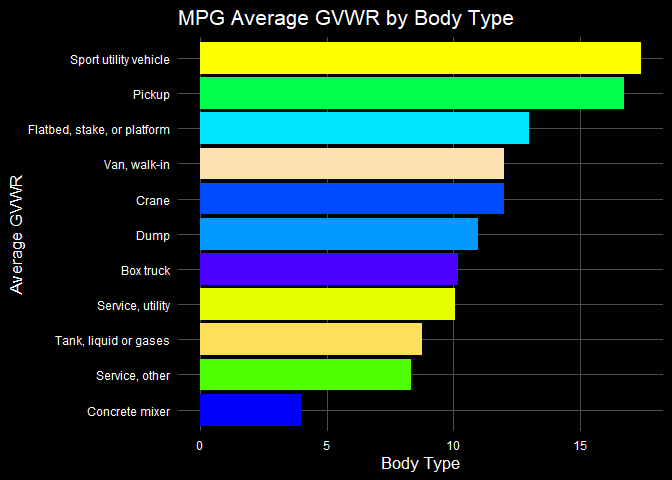
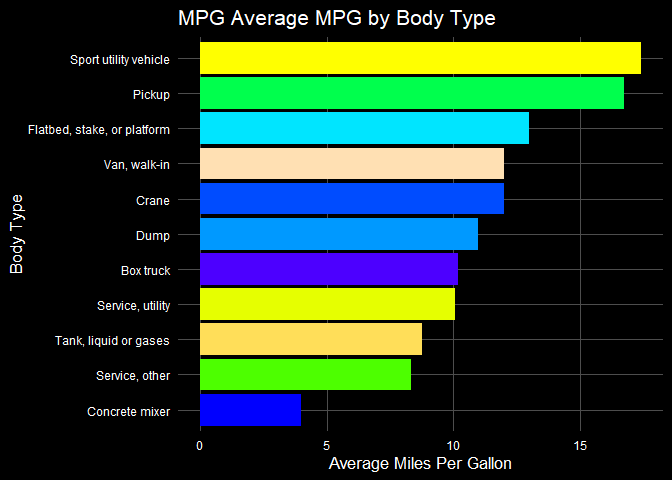
fin.
spruced up desc, fixed minor detail on readme

Changed region(s): [[0.4688, 0.0, 0.7812, 0.0625], [0.4688, 0.9375, 0.75, 1.0], [0.0, 0.3438, 0.0625, 0.625]]

diff --git a/README.md b/README.md
@@ -117,9 +117,9 @@ body type and generates a horizontal bar chart.
 ``` r
 get_btype_graphs(vius1 = vius_cleaned,
                  var = `MPG`,
-                 plot_title = "Average GVWR by Body Type",
-                 x_plot_label = "Average GVWR",
-                 y_plot_label = "Body Type")
+                 plot_title = "Average MPG by Body Type",
+                 x_plot_label = "Body Type",
+                 y_plot_label = "Average Miles Per Gallon")
 ```
 
 <img src="man/figures/README-unnamed-chunk-2-1.png" width="100%" />
@@ -137,6 +137,9 @@ get_state_maps(vius = vius_cleaned,
                var_label = "Fuel Volume",
                dollars = FALSE)
 ```
+
+<div class="plotly html-widget html-fill-item" id="htmlwidget-c0068b37a6a014002611" style="width:100%;height:480px;"></div>
+<script type="application/json" data-for="htmlwidget-c0068b37a6a014002611">{"x":{"visdat":{"52304e194383":["function () ","plotlyVisDat"]},"cur_data":"52304e194383","attrs":{"52304e194383":{"locationmode":"USA-states","alpha_stroke":1,"sizes":[10,100],"spans":[1,20],"z":{},"text":{},"locations":{},"color":{},"colors":"Blues","hoverinfo":"text","inherit":true}},"layout":{"margin":{"b":40,"l":60,"t":25,"r":10},"mapType":"geo","geo":{"domain":{"x":[0,1],"y":[0,1]},"scope":"usa","projection":{"type":"albers usa"},"showlakes":true,"lakecolor":"rgba(255,255,255,1)"},"scene":{"zaxis":{"title":"total"}},"hovermode":"closest","showlegend":false,"legend":{"yanchor":"top","y":0.5}},"source":"A","config":{"modeBarButtonsToAdd":["hoverclosest","hovercompare"],"showSendToCloud":false},"data":[{"colorbar":{"title":"total","ticklen":2,"len":0.5,"lenmode":"fraction","y":1,"yanchor":"top"},"colorscale":[["0","rgba(247,251,255,1)"],["0.0416666666666667","rgba(239,246,252,1)"],["0.0833333333333333","rgba(230,240,250,1)"],["0.125","rgba(222,235,247,1)"],["0.166666666666667","rgba(214,230,244,1)"],["0.208333333333333","rgba(206,224,242,1)"],["0.25","rgba(198,219,239,1)"],["0.291666666666667","rgba(185,213,234,1)"],["0.333333333333333","rgba(172,208,230,1)"],["0.375","rgba(158,202,225,1)"],["0.416666666666667","rgba(142,193,221,1)"],["0.458333333333333","rgba(125,183,218,1)"],["0.5","rgba(107,174,214,1)"],["0.541666666666667","rgba(94,165,209,1)"],["0.583333333333333","rgba(81,155,203,1)"],["0.625","rgba(66,146,198,1)"],["0.666666666666667","rgba(57,135,192,1)"],["0.708333333333333","rgba(46,124,187,1)"],["0.75","rgba(33,113,181,1)"],["0.791666666666667","rgba(27,102,173,1)"],["0.833333333333333","rgba(19,91,164,1)"],["0.875","rgba(8,81,156,1)"],["0.916666666666667","rgba(9,70,139,1)"],["0.958333333333333","rgba(9,59,123,1)"],["1","rgba(8,48,107,1)"]],"showscale":true,"locationmode":"USA-states","z":[5,10.59,23,21.760000000000002,5,7,6,12,13.85,10.619999999999999,10,10.619999999999999,20,1,15,6.9199999999999999,6,10.19,14,12,10.19,21.760000000000002,10,7.7199999999999998,10,9,12.1,21.760000000000002,4,12,15.59,12.1,18,7.7199999999999998,15.59,10.59,6.9199999999999999,12,10,7.7199999999999998,24.91,10.59,6,14,10.710000000000001,14.65,18.489999999999998,10.59,24.91,10.59,13.800000000000001,13.85,20,14.65,13.85,21.760000000000002,20,15.59,7,14.65,10.710000000000001,6,8.5800000000000001,5,18.489999999999998,5,8.5800000000000001,6.9199999999999999,18.489999999999998,18,5,13.800000000000001],"text":["State: MT<br>Fuel Volume: 5","State: NC<br>Fuel Volume: 10.59","State: SD<br>Fuel Volume: 23","State: MD<br>Fuel Volume: 21.76","State: GA<br>Fuel Volume: 5","State: NJ<br>Fuel Volume: 7","State: OH<br>Fuel Volume: 6","State: HI<br>Fuel Volume: 12","State: UT<br>Fuel Volume: 13.85","State: WV<br>Fuel Volume: 10.62","State: MA<br>Fuel Volume: 10","State: WV<br>Fuel Volume: 10.62","State: KY<br>Fuel Volume: 20","State: AZ<br>Fuel Volume: 1","State: CO<br>Fuel Volume: 15","State: VT<br>Fuel Volume: 6.92","State: LA<br>Fuel Volume: 6","State: AL<br>Fuel Volume: 10.19","State: NM<br>Fuel Volume: 14","State: MN<br>Fuel Volume: 12","State: AL<br>Fuel Volume: 10.19","State: MD<br>Fuel Volume: 21.76","State: NY<br>Fuel Volume: 10","State: TX<br>Fuel Volume: 7.72","State: MA<br>Fuel Volume: 10","State: ID<br>Fuel Volume: 9","State: CA<br>Fuel Volume: 12.1","State: MD<br>Fuel Volume: 21.76","State: IL<br>Fuel Volume: 4","State: IN<br>Fuel Volume: 12","State: DE<br>Fuel Volume: 15.59","State: CA<br>Fuel Volume: 12.1","State: ME<br>Fuel Volume: 18","State: TX<br>Fuel Volume: 7.72","State: DE<br>Fuel Volume: 15.59","State: NC<br>Fuel Volume: 10.59","State: VT<br>Fuel Volume: 6.92","State: AR<br>Fuel Volume: 12","State: KS<br>Fuel Volume: 10","State: TX<br>Fuel Volume: 7.72","State: CT<br>Fuel Volume: 24.91","State: NC<br>Fuel Volume: 10.59","State: FL<br>Fuel Volume: 6","State: NM<br>Fuel Volume: 14","State: RI<br>Fuel Volume: 10.71","State: IA<br>Fuel Volume: 14.65","State: SC<br>Fuel Volume: 18.49","State: NC<br>Fuel Volume: 10.59","State: CT<br>Fuel Volume: 24.91","State: NC<br>Fuel Volume: 10.59","State: WY<br>Fuel Volume: 13.8","State: UT<br>Fuel Volume: 13.85","State: DC<br>Fuel Volume: 20","State: IA<br>Fuel Volume: 14.65","State: UT<br>Fuel Volume: 13.85","State: MD<br>Fuel Volume: 21.76","State: ND<br>Fuel Volume: 20","State: DE<br>Fuel Volume: 15.59","State: MI<br>Fuel Volume: 7","State: IA<br>Fuel Volume: 14.65","State: RI<br>Fuel Volume: 10.71","State: PA<br>Fuel Volume: 6","State: NE<br>Fuel Volume: 8.58","State: WI<br>Fuel Volume: 5","State: SC<br>Fuel Volume: 18.49","State: WI<br>Fuel Volume: 5","State: NE<br>Fuel Volume: 8.58","State: VT<br>Fuel Volume: 6.92","State: SC<br>Fuel Volume: 18.49","State: TN<br>Fuel Volume: 18","State: NV<br>Fuel Volume: 5","State: WY<br>Fuel Volume: 13.8"],"locations":["MT","NC","SD","MD","GA","NJ","OH","HI","UT","WV","MA","WV","KY","AZ","CO","VT","LA","AL","NM","MN","AL","MD","NY","TX","MA","ID","CA","MD","IL","IN","DE","CA","ME","TX","DE","NC","VT","AR","KS","TX","CT","NC","FL","NM","RI","IA","SC","NC","CT","NC","WY","UT","DC","IA","UT","MD","ND","DE","MI","IA","RI","PA","NE","WI","SC","WI","NE","VT","SC","TN","NV","WY"],"hoverinfo":["text","text","text","text","text","text","text","text","text","text","text","text","text","text","text","text","text","text","text","text","text","text","text","text","text","text","text","text","text","text","text","text","text","text","text","text","text","text","text","text","text","text","text","text","text","text","text","text","text","text","text","text","text","text","text","text","text","text","text","text","text","text","text","text","text","text","text","text","text","text","text","text"],"type":"choropleth","marker":{"line":{"colorbar":{"title":"","ticklen":2},"cmin":1,"cmax":24.91,"colorscale":[["0","rgba(247,251,255,1)"],["0.0416666666666667","rgba(239,246,252,1)"],["0.0833333333333333","rgba(230,240,250,1)"],["0.125","rgba(222,235,247,1)"],["0.166666666666667","rgba(214,230,244,1)"],["0.208333333333333","rgba(206,224,242,1)"],["0.25","rgba(198,219,239,1)"],["0.291666666666667","rgba(185,213,234,1)"],["0.333333333333333","rgba(172,208,230,1)"],["0.375","rgba(158,202,225,1)"],["0.416666666666667","rgba(142,193,221,1)"],["0.458333333333333","rgba(125,183,218,1)"],["0.5","rgba(107,174,214,1)"],["0.541666666666667","rgba(94,165,209,1)"],["0.583333333333333","rgba(81,155,203,1)"],["0.625","rgba(66,146,198,1)"],["0.666666666666667","rgba(57,135,192,1)"],["0.708333333333333","rgba(46,124,187,1)"],["0.75","rgba(33,113,181,1)"],["0.791666666666667","rgba(27,102,173,1)"],["0.833333333333333","rgba(19,91,164,1)"],["0.875","rgba(8,81,156,1)"],["0.916666666666667","rgba(9,70,139,1)"],["0.958333333333333","rgba(9,59,123,1)"],["1","rgba(8,48,107,1)"]],"showscale":false,"color":[5,10.59,23,21.760000000000002,5,7,6,12,13.85,10.619999999999999,10,10.619999999999999,20,1,15,6.9199999999999999,6,10.19,14,12,10.19,21.760000000000002,10,7.7199999999999998,10,9,12.1,21.760000000000002,4,12,15.59,12.1,18,7.7199999999999998,15.59,10.59,6.9199999999999999,12,10,7.7199999999999998,24.91,10.59,6,14,10.710000000000001,14.65,18.489999999999998,10.59,24.91,10.59,13.800000000000001,13.85,20,14.65,13.85,21.760000000000002,20,15.59,7,14.65,10.710000000000001,6,8.5800000000000001,5,18.489999999999998,5,8.5800000000000001,6.9199999999999999,18.489999999999998,18,5,13.800000000000001]}},"geo":"geo","frame":null}],"highlight":{"on":"plotly_click","persistent":false,"dynamic":false,"selectize":false,"opacityDim":0.20000000000000001,"selected":{"opacity":1},"debounce":0},"shinyEvents":["plotly_hover","plotly_click","plotly_selected","plotly_relayout","plotly_brushed","plotly_brushing","plotly_clickannotation","plotly_doubleclick","plotly_deselect","plotly_afterplot","plotly_sunburstclick"],"base_url":"https://plot.ly"},"evals":[],"jsHooks":[]}</script>
 
 ### Batch Plotting by State
 
